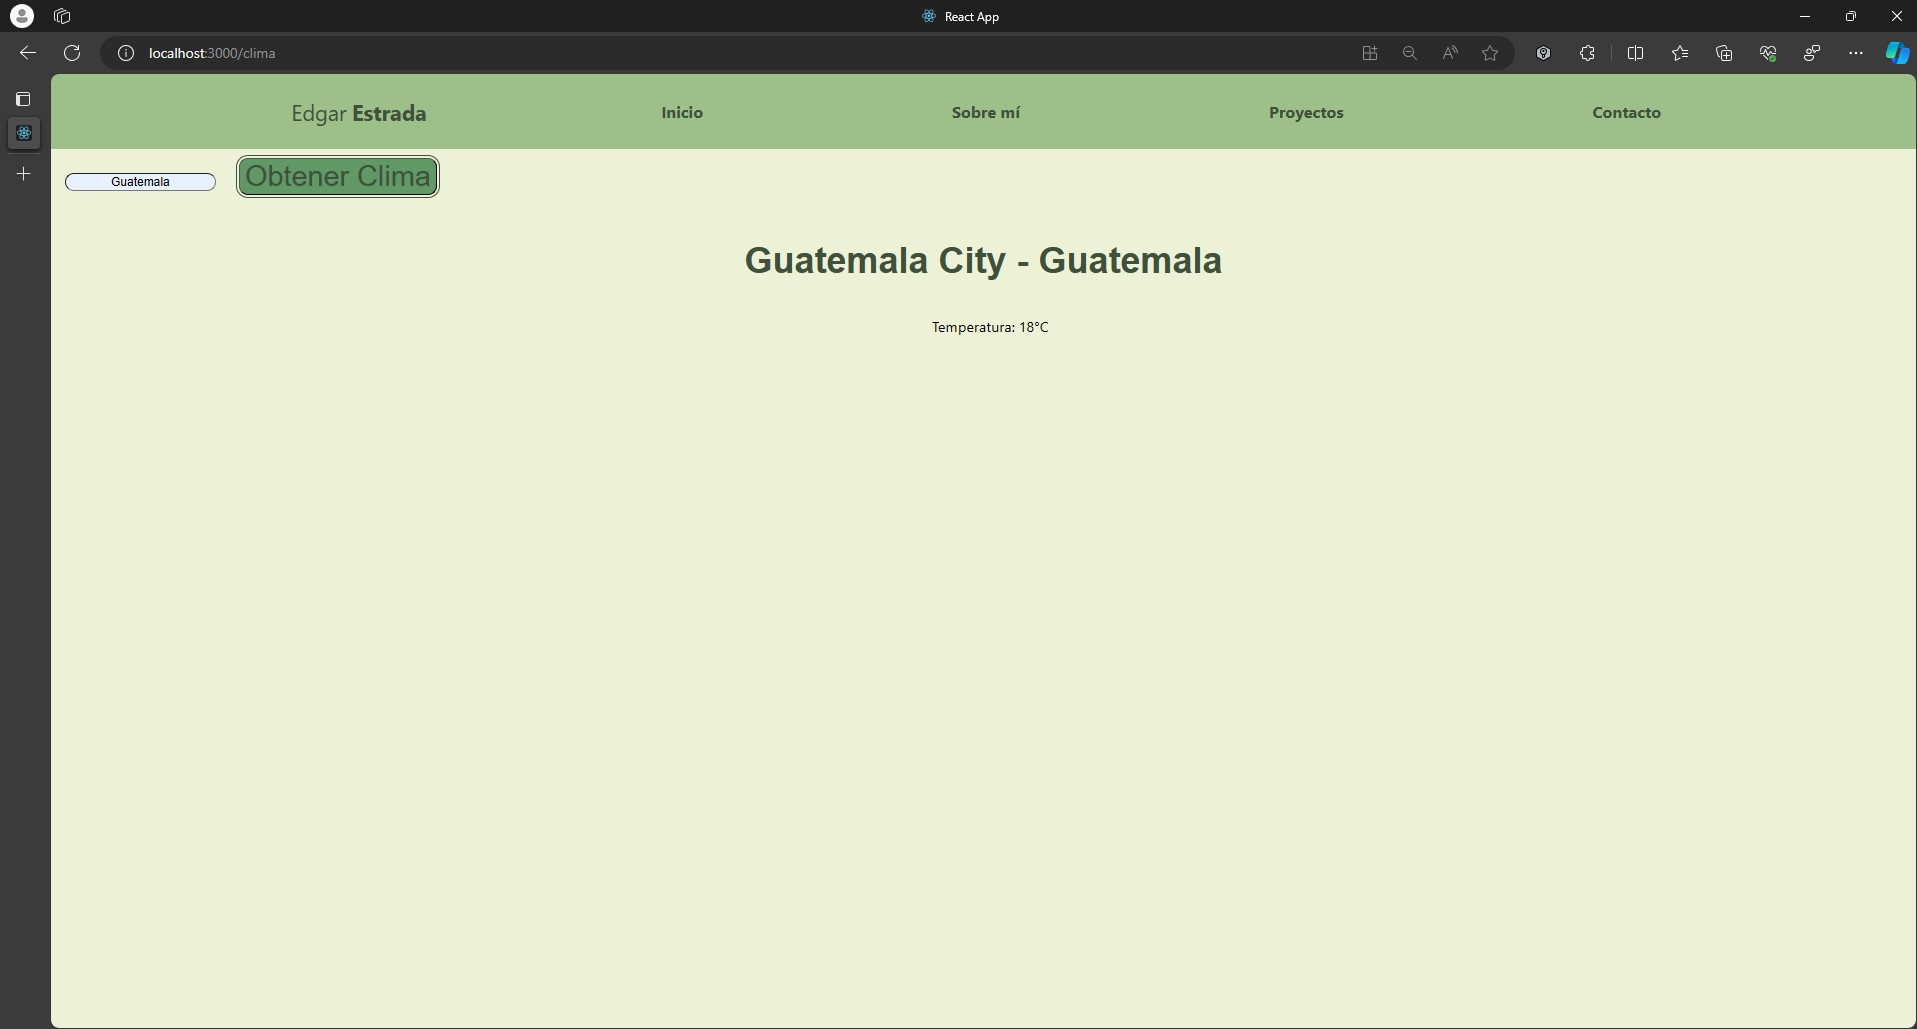
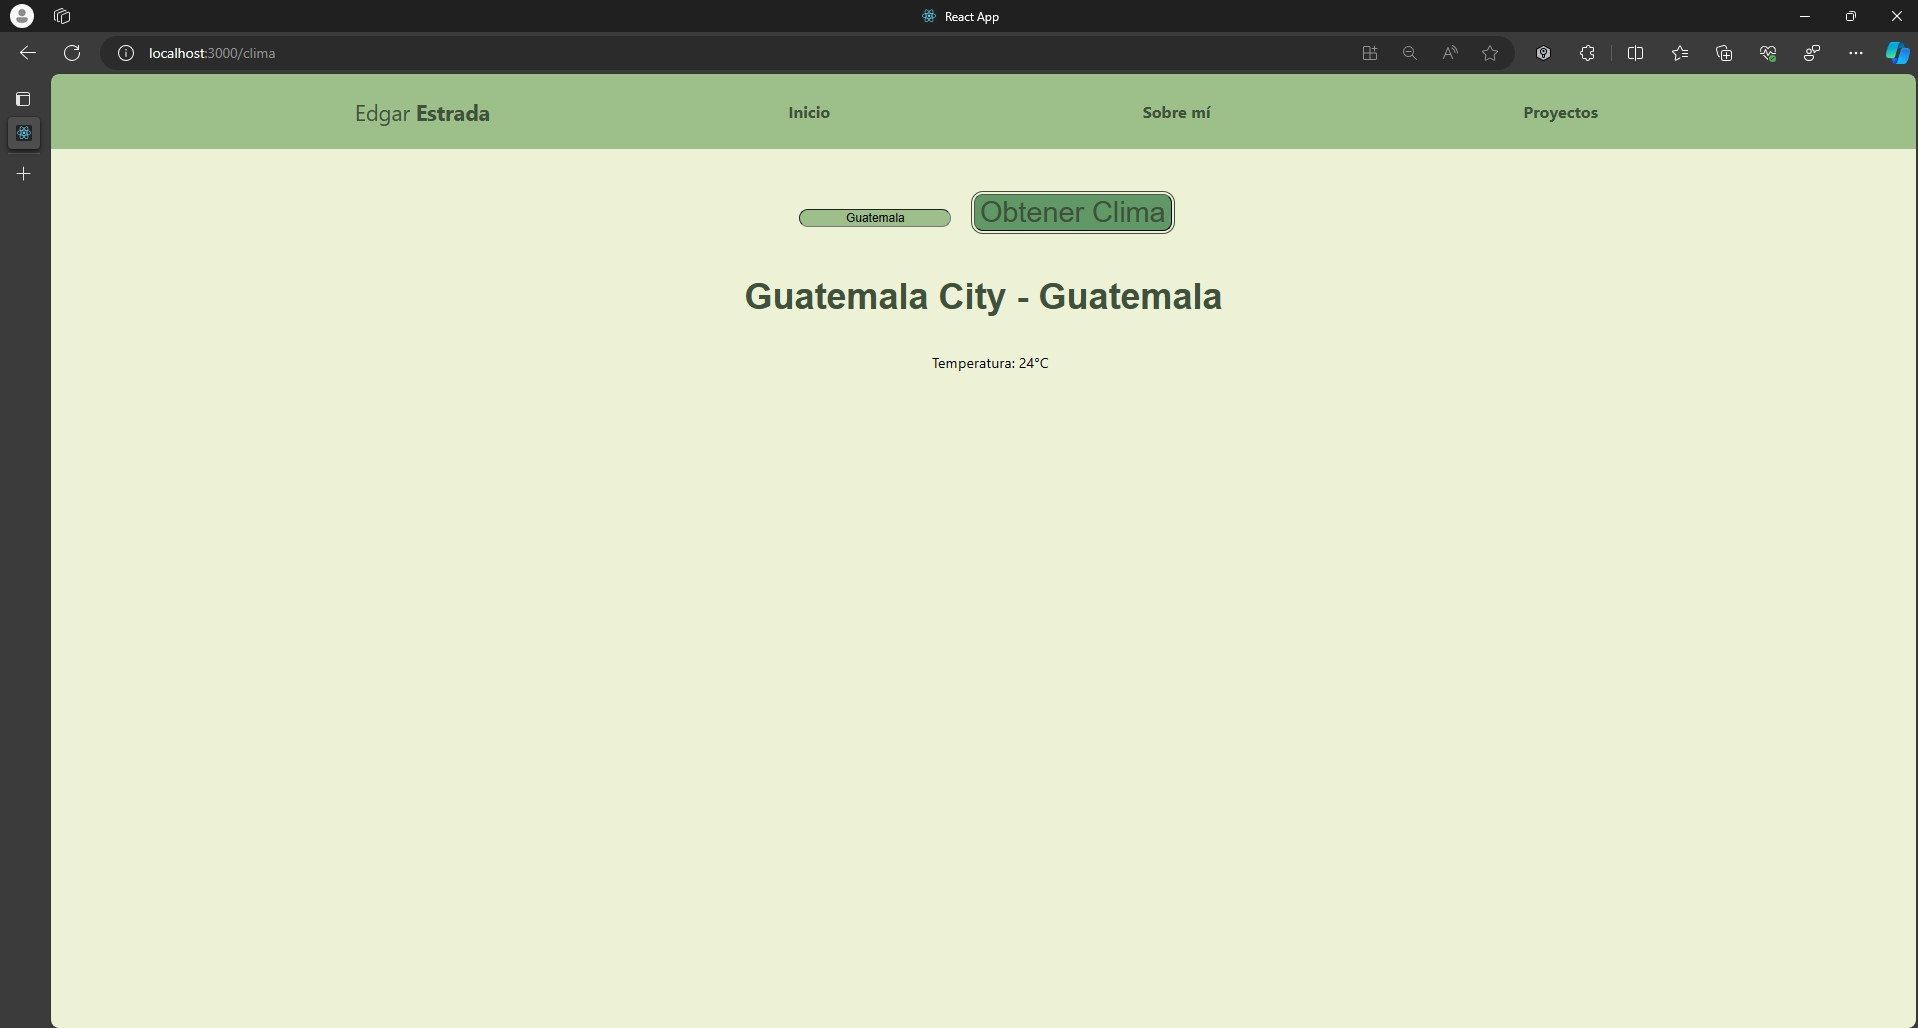
modificaciones

diff --git a/src/components/sobre_mi/sobre.js b/src/components/sobre_mi/sobre.js
@@ -7,8 +7,8 @@ function sobre(){
     <div className="contenedore">
         <div className="contenedorTexto">
             <h1>Estudiante de la carrera Ingieneria en Sistemas</h1>
-            <p className="textoss">Graduado en bachillerato en ciencias y letras con orientación en computación en el año 2019. Actualmente cursando el octavo ciclo de la carrera.
-      He realizado mis practicas dando un total de 304 horas de experiencia laboral. Actualmente me enfoco en finalizar mis estudios para amplear mis conocimientos.</p> 
+            <p className="textoss">Graduado en bachillerato en ciencias y letras con orientación en computación en el año 2019. Actualmente cursando el octavo ciclo de la carrera Universitaria.
+            Actualmente me enfoco en finalizar mis estudios para amplear mis conocimientos.</p> 
         </div>
         <div>
             <img className="contenedorImagene" src={imagenes.Mifoto} alt="foto"/>

diff --git a/src/components/inicio/inicio.js b/src/components/inicio/inicio.js
@@ -6,13 +6,13 @@ function inicio(){
     return(
         <div className="contenedo">
             <div className="contenedorTexto">
-                <h1>Hola,</h1>
+                <h1>Hola</h1>
                 <h1>Soy Edgar Estrada</h1>
                 <h2 className="textoo">Estoy iniciando en el Desarrollo Web.</h2> 
                 <h2 className="textoo">Puedes contactarme al correo: eestradag16@miumg.edu.gt</h2> 
             </div>
             <div>
-                <img className="contenedorImagenI" src={imagenes.Mifoto} alt="foto"/>
+                <img className="contenedorImagenI" src={imagenes.muestra} alt="foto"/>
             </div>
         </div>
     );

diff --git a/src/components/climaAPI/climaAPI.js b/src/components/climaAPI/climaAPI.js
@@ -23,13 +23,14 @@ function ClimaAPI() {
     
     return (
         <div>
+            <div className="alinear">
             <input className="input"
             type="text"
             placeholder="Ingresa una ciudad"
             onChange={(e) => setCiudad(e.target.value)}/>
 
             <button className="buttonClassPrimary" onClick={() => getWeatherData(ciudad)}>Obtener Clima</button>
-
+            </div>
             {/*Mostrar los datos si existen*/}
             {weatherData &&(
                 <div>

diff --git a/src/App.js b/src/App.js
@@ -4,7 +4,6 @@ import Header from './components/header/header';
 import Inicio from './components/inicio/inicio';
 import Sobre from './components/sobre_mi/sobre';
 import Proyectos from './components/proyectos/proyectos';
-import Contactos from './components/contacto/contacto';
 import NasaAPI from './components/nasaAPI/nasaAPI';
 import ClimaAPI from './components/climaAPI/climaAPI';
 import ContenedorYoutube from './components/contenedorYoutube/contenedorYoutube';

diff --git a/src/components/assets/imagenes.js b/src/components/assets/imagenes.js
@@ -5,6 +5,7 @@ import mi from './imagenes/prueba.jpg'
 import yo from './imagenes/youtube.jpg'
 import na from './imagenes/nasa.jpg'
 import cl from './imagenes/clima.jpg'
+import mu from './imagenes/muestra.png'
 
 export default{
     "Paisaje1": p1,
@@ -13,5 +14,6 @@ export default{
     "Mifoto": mi,
     "youtube": yo,
     "nasa": na,
-    "clima": cl
+    "clima": cl,
+    "muestra": mu
 }

diff --git a/src/components/nasaAPI/nasaAPI.js b/src/components/nasaAPI/nasaAPI.js
@@ -22,8 +22,9 @@ function ClimaAPI() {
     
     return (
         <div> 
+            <div className="alinear">
             <button className="buttonClassPrimary" onClick={getNasaData}>Obtener Imagen</button>
-
+            </div>
             {/*Mostrar los datos si existen*/}
             {nasaData &&(        
             <div className="contenedor">

diff --git a/src/components/sobre_mi/sobre.css b/src/components/sobre_mi/sobre.css
@@ -28,7 +28,7 @@ h1{
     align-items: center;
     justify-content: center;
     border-radius: 10px 10px 10px 10px;
-    margin: 15px;
+    margin: 25px 0px 0px;
     text-align: center;    
 }
 
